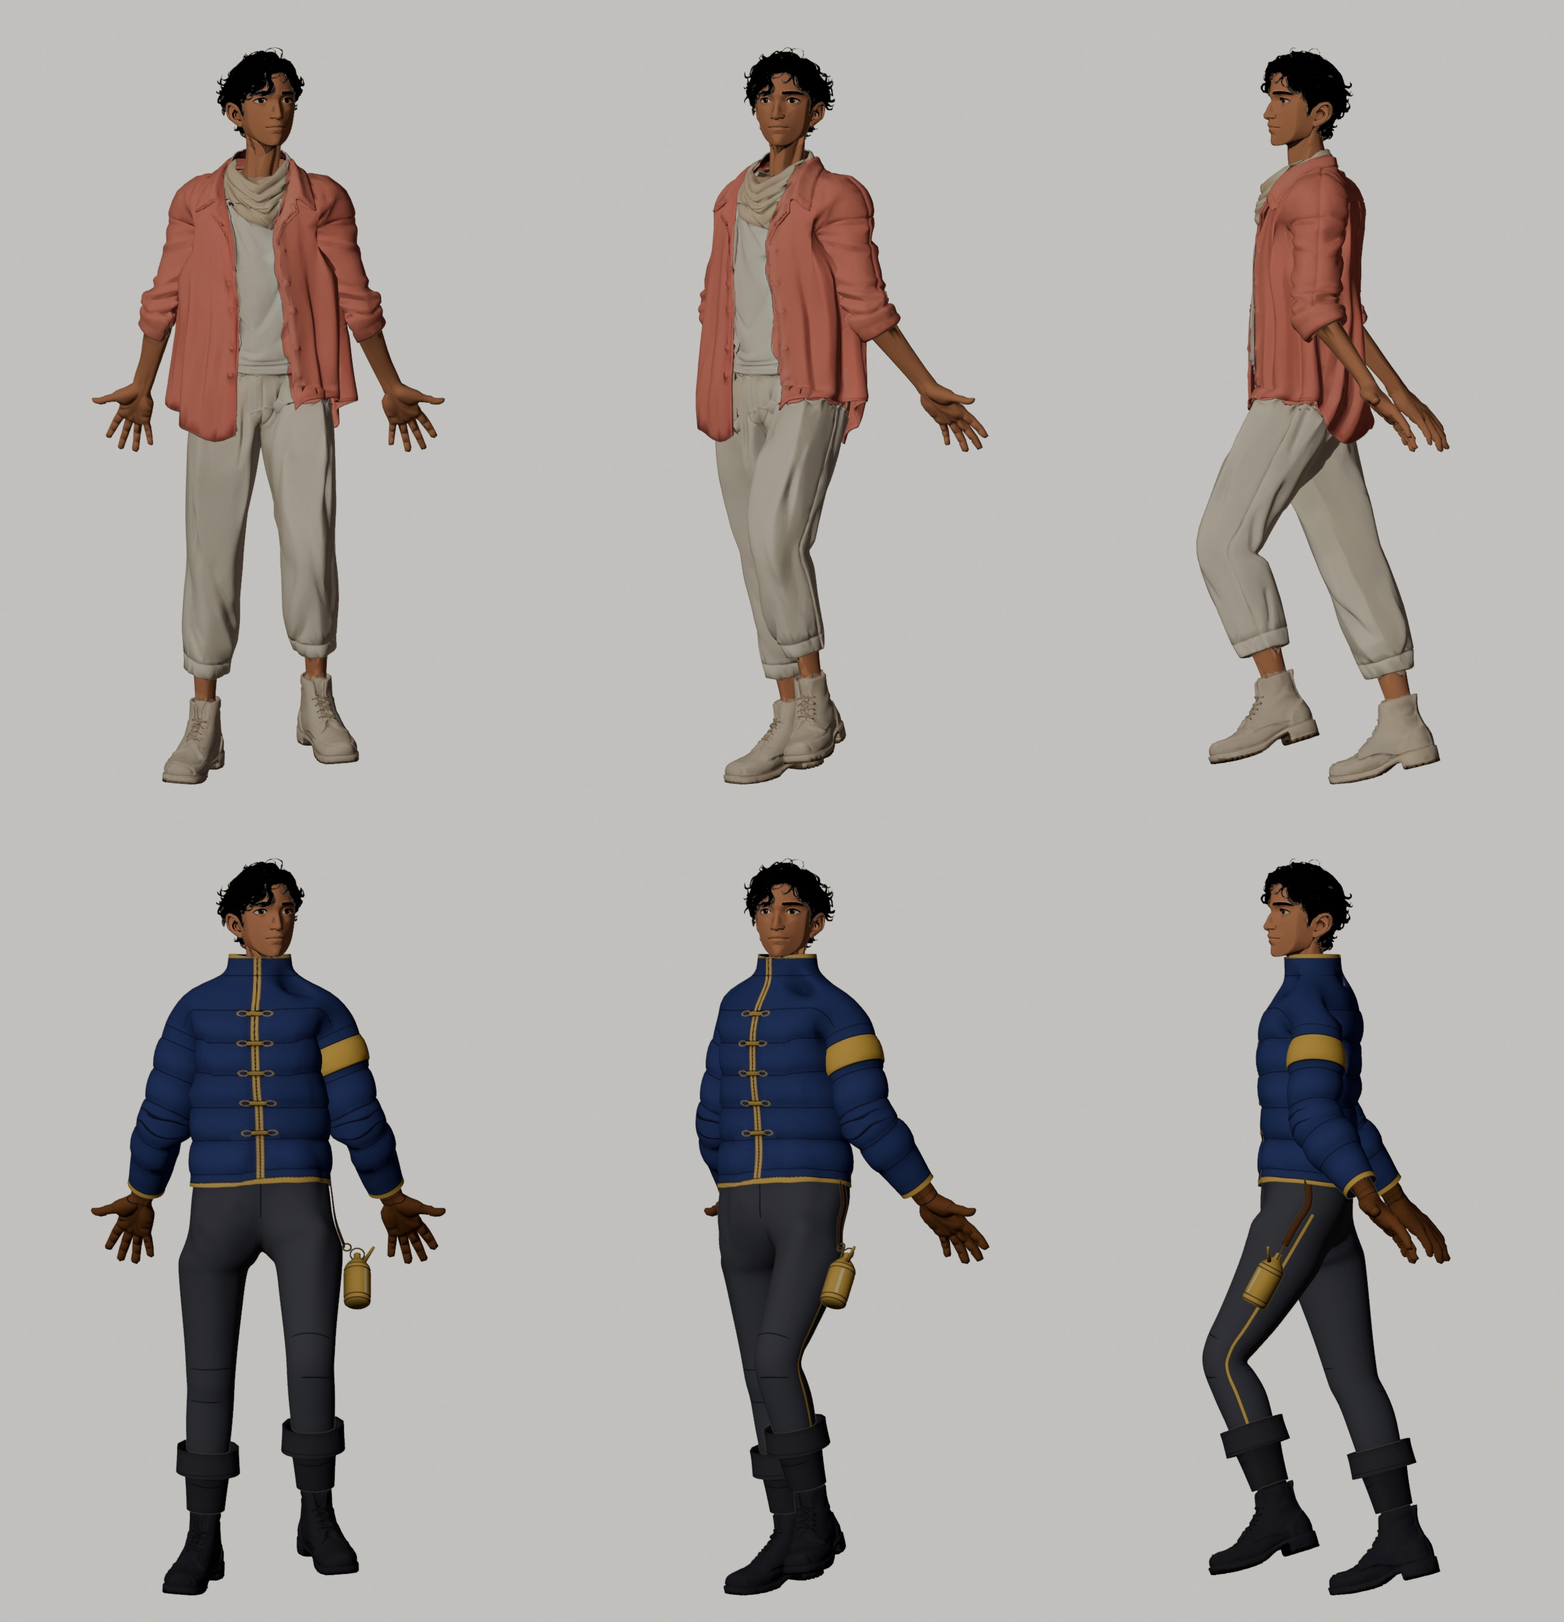
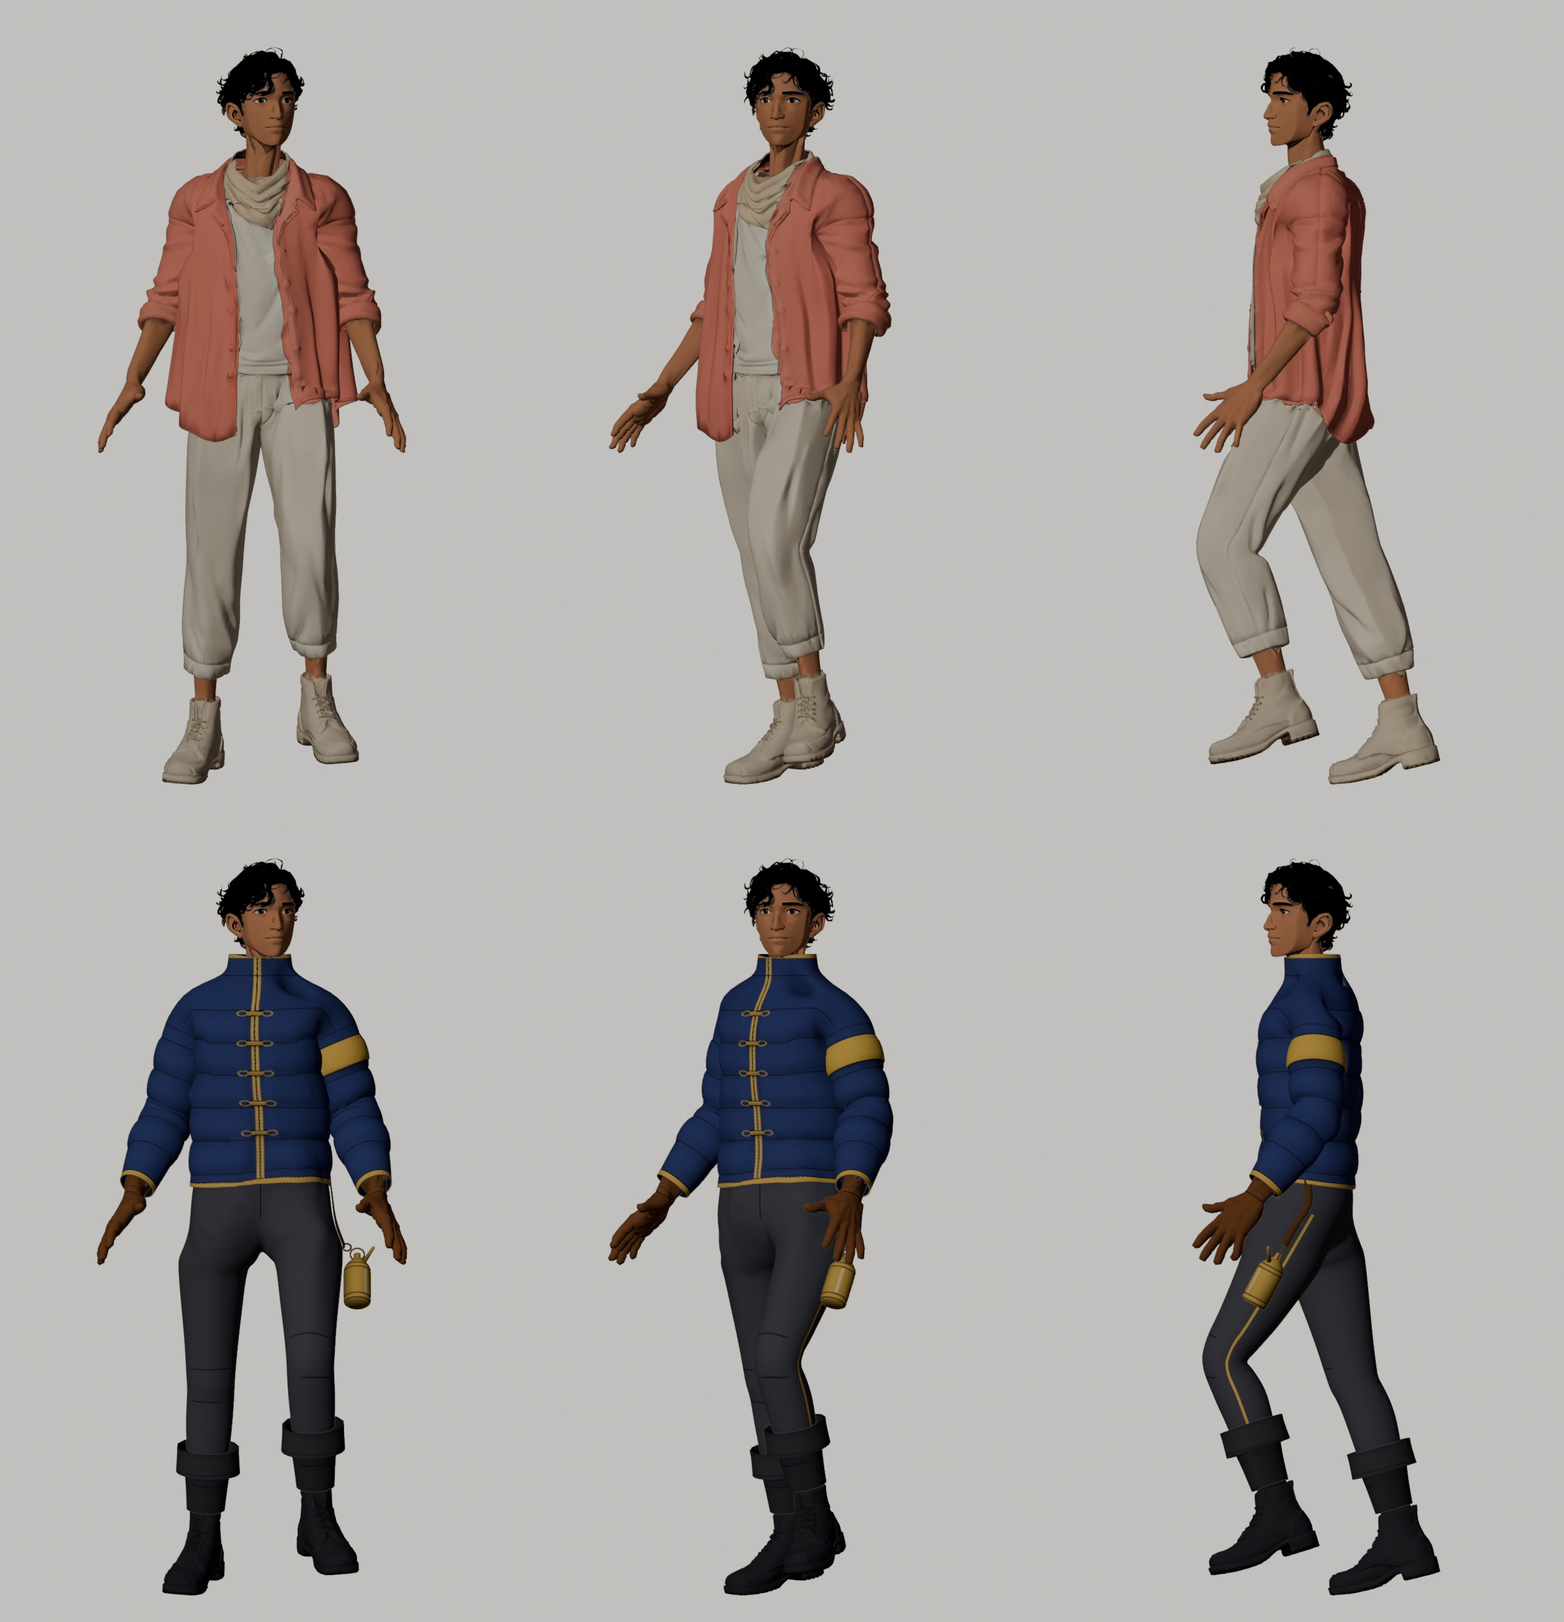
Fixes #548: the outfit pictures' elbows bend forward: the lowered pose's forearm turns had their signs swapped
The cause: the previews' lowered pose (scripts/blender/traveller/poses.py LOWERED, and its own copy in
previews.py) turns each bone about the armature's axes from the rest T-pose. The rig faces -y with his
left at +x, so a forearm bends forward (toward -y) about z by a negative angle on the left and a positive
one on the right; the pose had +35 / -35, so in every posed picture (the base's and each outfit's) the
elbows bent backwards, the hands out behind the hips, palms forward. Not the rig: the bones' rest and
roll match B3's, and the game's clips (poses.clip, and the game's own Animator on B3's skeleton that the
outfits page binds the v2 skin to by bone name) bend the elbows forward and the knees back, measured.

- poses.py: the forearms' signs the right way round, and the palms turned in (his rest palms face
  forward), shared between the forearm and the wrist; a bone may take several turns in order (turn());
  bend() reads an elbow's or a knee's bend and its side. previews.py uses poses.LOWERED (no copy).
- Re-rendered: the base's posed and shoulder sheets, each outfit's posed sheet (the pokes in the lowered
  pose measured again by a rebuild into a temp dir: unchanged, the manifests left as they were).
- tests/traveller-elbows.test.js: the lowered pose read from poses.py on the v2 rest bends both elbows
  forward and the knee back; the game's idle, walk and run on B3 with the v2 skin bound by bone name bend
[…]

diff --git a/tests/traveller-elbows.test.js b/tests/traveller-elbows.test.js
@@ -1,0 +1,148 @@
+// The v2 traveller's elbows and knees bend the right way (#548; the author: "in the outfits you are showing me why
+// are the arms bent backwards?"). The cause was the previews' lowered pose (scripts/blender/traveller/poses.py,
+// LOWERED, and its copy in previews.py): the forearms' turns about the armature's z had their signs the wrong way
+// round for a rig facing -y, so in every posed picture the elbows bent backwards, the hands out behind, palms
+// forward. Measured here: that pose read from poses.py on the v2 skeleton's rest (bent forward now, the knee back);
+// and the game's own clips (idle, walk, run) on B3 with the v2 skin bound to its skeleton by bone name, as the
+// outfits page binds it (src/characters/outfit-page.js): its forearms bend as B3's skeleton does, forward.
+import test from 'node:test';
+import assert from 'node:assert/strict';
+import * as T from 'three';
+import { GLTFLoader } from 'three/addons/loaders/GLTFLoader.js';
+import { readFileSync } from 'node:fs';
+const element = () => ({ classList: { add() {}, remove() {}, toggle() {} }, style: {}, dataset: {}, addEventListener() {}, appendChild() {}, remove() {}, querySelector: () => null });
+globalThis.document ??= { createElement: element, body: element(), getElementById: () => null, querySelector: () => null };
+globalThis.ProgressEvent ??= class { constructor(type, init) { Object.assign(this, { type }, init); } };
+const { Player } = await import('../src/player.js');
+const { Physics } = await import('../src/physics.js');
+const { Animator, libraryFrom } = await import('../src/animator.js');
+const { createTraveller } = await import('../src/characters/traveller.js');
+const { travellerB3 } = await import('./gait-sim.js');
+const { course, CAM_PLUS_Z } = await import('../src/gait-course.js');
+
+const DIR = 'data/characters/traveller-v2/';
+const manifest = JSON.parse(readFileSync(DIR + 'manifest.json', 'utf8'));
+
+/** The lowered pose as poses.py writes it: { bone: [[axis, degrees], ...] } (a Python dict of tuples, read as JS). */
+function lowered() {
+  const src = readFileSync('scripts/blender/traveller/poses.py', 'utf8');
+  const consts = Object.fromEntries([...src.matchAll(/^([A-Z_]+) = (-?[\d.]+)\b/gm)].map((m) => [m[1], Number(m[2])]));
+  const text = /^LOWERED = (\{[\s\S]*?\})\n/m.exec(src)[1].replace(/\(/g, '[').replace(/\)/g, ']');
+  const raw = new Function(...Object.keys(consts), `return ${text};`)(...Object.values(consts));
+  // one turn [axis, deg] or a list of them
+  return Object.fromEntries(Object.entries(raw).map(([k, v]) => [k, typeof v[1] === 'number' ? [v] : v]));
+}
+// Blender's frame (z up, facing -y) from the manifest's (the game's: y up, facing +z)
+const blender = ([x, y, z]) => new T.Vector3(x, -z, y);
+const head = (n) => blender(manifest.skeleton[n].head);
+/** A bone's turns as one rotation in the armature's frame, made in order (poses.turn). */
+const turned = (turns = []) => turns.reduce((q, [axis, deg]) => new T.Quaternion().setFromAxisAngle(new T.Vector3(...axis).normalize(), deg * Math.PI / 180).multiply(q), new T.Quaternion());
+/** (degrees between the two bones, the lower one's lean toward the upper one's front) for a chain a → b → c. */
+function bendOf(u, f, front) {
+  const perp = f.clone().addScaledVector(u, -f.dot(u));
+  return { deg: u.angleTo(f) * 180 / Math.PI, lean: perp.dot(front) };
+}
+
+test('the previews\' lowered pose bends the elbows forward and the knee back (poses.py)', () => {
+  const P = lowered();
+  for (const s of ['l', 'r']) {
+    const qu = turned(P[`upperarm_${s}`]), qf = qu.clone().multiply(turned(P[`lowerarm_${s}`]));
+    const u = head(`lowerarm_${s}`).sub(head(`upperarm_${s}`)).normalize().applyQuaternion(qu);
+    const f = head(`hand_${s}`).sub(head(`lowerarm_${s}`)).normalize().applyQuaternion(qf);
+    const b = bendOf(u, f, new T.Vector3(0, -1, 0).applyQuaternion(qu));
+    assert.ok(b.deg > 20 && b.lean > 0.3, `elbow ${s}: bent ${b.deg.toFixed(0)}°, toward his front ${b.lean.toFixed(2)} (below 0: backwards)`);
+  }
+  const qt = turned(P.thigh_l), qc = qt.clone().multiply(turned(P.calf_l));
+  const u = head('calf_l').sub(head('thigh_l')).normalize().applyQuaternion(qt);
+  const f = head('foot_l').sub(head('calf_l')).normalize().applyQuaternion(qc);
+  const b = bendOf(u, f, new T.Vector3(0, -1, 0).applyQuaternion(qt));
+  assert.ok(b.deg > 20 && b.lean < -0.3, `knee l: bent ${b.deg.toFixed(0)}°, toward his front ${b.lean.toFixed(2)} (a knee bends back)`);
+  // and the previews' own copy is that pose (previews.py once had its own, the same wrong signs)
+  assert.match(readFileSync('scripts/blender/traveller/previews.py', 'utf8'), /\*\*PZ\.LOWERED/);
+});
+
+// ---- the game's clips on B3, the v2 skin on its skeleton
+const parse = (file) => { const b = readFileSync(file); return new GLTFLoader().parseAsync(b.buffer.slice(b.byteOffset, b.byteOffset + b.byteLength), ''); };
+async function v2Skin() {
+  const g = readFileSync(DIR + 'traveller.glb'), n = g.readUInt32LE(12), json = JSON.parse(g.toString('utf8', 20, 20 + n)), bin = g.subarray(28 + n);
+  json.buffers = [{ uri: 'data:application/octet-stream;base64,' + bin.toString('base64'), byteLength: bin.length }];
+  delete json.images; delete json.textures; delete json.samplers; delete json.materials;
+  for (const m of json.meshes) for (const pr of m.primitives) delete pr.material;
+  const gltf = await new GLTFLoader().parseAsync(JSON.stringify(json), '');
+  let skin = null;
+  gltf.scene.traverse((o) => { if (o.isSkinnedMesh && o.name === 'Skin') skin = o; });
+  return skin;
+}
+const assets = await travellerB3(), lib = libraryFrom(await parse('public/anim/ual.glb')), skinSrc = await v2Skin();
+
+/** The game's traveller (B3) standing at the origin facing +z, and the v2 skin piece bound to his skeleton by bone name. */
+function traveller() {
+  const scene = course(), physics = new Physics(scene);
+  const p = new Player(physics, { climb: false, health: false });
+  p.animator = new Animator(lib, p.char);
+  p.character = createTraveller(p.char, assets);
+  p.humanoid = p.character.humanoid;
+  p.gear = { update() {}, device: { visible: true } };
+  p._lastVel = new T.Vector3();
+  p.pos.set(0, physics.groundAt(0, 5, 0), 0); p.heading = 0; p.vel.set(0, 0, 0); p.onGround = true; p.lastSafe.copy(p.pos);
+  scene.add(p.object);
+  // (as outfit-page.js loadParts and Wardrobe.make: skinIndex renumbered to his bones by name, bound with B3's bind matrix)
+  const body = p.humanoid.body, bones = body.skeleton.bones, g = skinSrc.geometry.clone();
+  const map = skinSrc.skeleton.bones.map((b) => bones.findIndex((t) => t.name === b.name));
+  assert.ok(map.every((i) => i >= 0), 'every v2 bone on his skeleton');
+  const si = g.attributes.skinIndex;
+  for (let k = 0; k < si.array.length; k++) si.array[k] = map[si.array[k]];
+  const v2 = new T.SkinnedMesh(g, new T.MeshBasicMaterial());
+  body.parent.add(v2);
+  v2.bind(body.skeleton, body.bindMatrix);
+  return { p, v2 };
+}
+
+/** Each elbow's bend on B3's skeleton and on the v2 skin (its hand's verts' centroid off the elbow), in his own frame. */
+function elbows(p, v2, hands) {
+  const H = p.humanoid, root = p.char.root, inv = root.getWorldQuaternion(new T.Quaternion()).invert();
+  root.updateMatrixWorld(true); H.body.skeleton.update();
+  const at = (b) => root.worldToLocal(b.getWorldPosition(new T.Vector3()));
+  const out = {};
+  for (const s of ['l', 'r']) {
+    const U = H.b[`upperarm_${s}`], L = H.b[`lowerarm_${s}`], W = H.b[`hand_${s}`];
+    const front = new T.Vector3(0, 0, 1).applyQuaternion(U.getWorldQuaternion(new T.Quaternion()).premultiply(inv).multiply(H.rest.get(U).q.clone().invert()));
+    const u = at(L).sub(at(U)).normalize(), elbow = at(L);
+    const hand = hands[s].reduce((c, i) => c.add(root.worldToLocal(v2.applyBoneTransform(i, new T.Vector3().fromBufferAttribute(v2.geometry.attributes.position, i)).applyMatrix4(v2.matrixWorld))), new T.Vector3()).divideScalar(hands[s].length);
+    out[s] = { b3: bendOf(u, at(W).sub(elbow).normalize(), front), v2: bendOf(u, hand.clone().sub(elbow).normalize(), front), handOff: hand.distanceTo(at(W)) };
+  }
+  return out;
+}
+
+const GAITS = [['standing (the idle)', 4 * 60, () => ({})], ['walking', 3 * 60, () => ({ y: 1 })], ['running', 3 * 60, () => ({ y: 1, run: true })]];
+for (const [name, frames, drive] of GAITS) {
+  test(`the game's clips bend the v2 elbows as B3's, forward: ${name}`, { timeout: 300000 }, async () => {
+    const { p, v2 } = traveller(), dt = 1 / 60;
+    // his hands on the v2 skin: the verts weighted mostly to each hand bone
+    const bones = p.humanoid.body.skeleton.bones, w = v2.geometry.attributes.skinWeight, si = v2.geometry.attributes.skinIndex;
+    const hands = Object.fromEntries(['l', 'r'].map((s) => {
+      const h = bones.findIndex((b) => b.name === `hand_${s}`), ids = [];
+      for (let i = 0; i < w.count; i++) for (let k = 0; k < 4; k++) if (si.getComponent(i, k) === h && w.getComponent(i, k) > 0.6) ids.push(i);
+      return [s, ids];
+    }));
+    assert.ok(hands.l.length > 20 && hands.r.length > 20, 'hand verts to follow');
+    const rest = elbows(p, v2, hands);
+    let bent = 0, worstOff = 0;
+    for (let i = 0; i < frames; i++) {
+      p.update(dt, drive(i * dt), CAM_PLUS_Z); p.object.updateMatrixWorld(true);
+      p.character.updateHands();
+      if (i < 30 || i % 6) continue;
+      const m = elbows(p, v2, hands);
+      for (const s of ['l', 'r']) {
+        worstOff = Math.max(worstOff, Math.abs(m[s].handOff - rest[s].handOff));
+        if (m[s].b3.deg < 15) continue;   // (near straight: no side to bend to)
+        bent++;
+        const say = `${s} elbow at ${i} (${name}): B3 bent ${m[s].b3.deg.toFixed(0)}° toward his front ${m[s].b3.lean.toFixed(2)}, v2 ${m[s].v2.deg.toFixed(0)}° ${m[s].v2.lean.toFixed(2)}`;
+        assert.ok(m[s].b3.lean > 0, `B3 bends backwards: ${say}`);
+        assert.ok(m[s].v2.lean > 0, `v2 bends backwards: ${say}`);
+      }
+    }
+    assert.ok(bent > 0, `${name}: the elbows bent at some point`);
+    assert.ok(worstOff < 0.03, `${name}: the v2 hand left B3's hand bone by ${(worstOff * 100).toFixed(1)} cm`);
+  });
+}

diff --git a/scripts/blender/traveller/poses.py b/scripts/blender/traveller/poses.py
@@ -15,9 +15,19 @@ from mathutils.bvhtree import BVHTree
 HERE = os.path.dirname(os.path.abspath(__file__))
 UAL = os.path.join(HERE, '..', '..', '..', 'public', 'anim', 'ual.glb')
 
-# the previews' pose: arms down and bent, a stride, the head turned
-LOWERED = {'upperarm_l': ((0, 1, 0), 68), 'upperarm_r': ((0, 1, 0), -68), 'lowerarm_l': ((0, 0, 1), 35),
-           'lowerarm_r': ((0, 0, 1), -35), 'thigh_l': ((1, 0, 0), -28), 'calf_l': ((1, 0, 0), 45),
+PALMS_IN = 100   # degrees
+# the previews' pose: arms down and bent, a stride, the head turned. Each turn is about an axis of the armature
+# (Blender's frame: z up, facing -Y, his left at +x), whatever the bone's roll, from the rest T-pose: the upper
+# arms lowered about y, the forearms bent forward (toward -y) about z, so the left one (along +x) turns by a
+# negative angle and the right one (along -x) by a positive one. (Until #548 the forearms' signs were the other
+# way round: the elbows bent backwards, the hands flung out behind, palms forward, in every posed preview.)
+# His rest T-pose has the palms forward: the forearms and hands turned palms in (about x, the arms' line at rest,
+# a turn shared between the forearm and the wrist), as arms hang. A bone's turns are made in the order given
+# (the forearm's: turned on its own line, then bent).
+LOWERED = {'upperarm_l': ((0, 1, 0), 68), 'upperarm_r': ((0, 1, 0), -68),
+           'lowerarm_l': [((1, 0, 0), PALMS_IN / 2), ((0, 0, 1), -35)], 'lowerarm_r': [((1, 0, 0), PALMS_IN / 2), ((0, 0, 1), 35)],
+           'hand_l': ((1, 0, 0), PALMS_IN / 2), 'hand_r': ((1, 0, 0), PALMS_IN / 2),
+           'thigh_l': ((1, 0, 0), -28), 'calf_l': ((1, 0, 0), 45),
            'thigh_r': ((1, 0, 0), 14), 'neck_01': ((0, 0, 1), 12), 'Head': ((0, 0, 1), 14),
            'spine_02': ((0, 0, 1), -6)}
 # frames of the game's clips (fraction of the clip): idle, the jog's two passing poses, a sprint stride
@@ -34,13 +44,19 @@ def reset(rig):
 
 def lowered(rig):
     reset(rig)
-    for name, (axis, deg) in LOWERED.items():
-        if name not in rig.pose.bones:
-            continue
-        b = rig.pose.bones[name]
-        M = rig.data.bones[name].matrix_local.to_3x3()
-        b.rotation_quaternion = Quaternion(M.inverted() @ Vector(axis), math.radians(deg))
+    for name, turns in LOWERED.items():
+        if name in rig.pose.bones:
+            rig.pose.bones[name].rotation_quaternion = turn(rig, name, turns)
     bpy.context.view_layer.update()
+
+
+def turn(rig, name, turns):
+    """A pose bone's rotation for turns about the armature's axes ((axis, degrees) or a list of them, made in order)."""
+    M = rig.data.bones[name].matrix_local.to_3x3().inverted()
+    q = Quaternion()
+    for axis, deg in (turns if isinstance(turns, list) else [turns]):
+        q = Quaternion(M @ Vector(axis), math.radians(deg)) @ q
+    return q
 
 
 _src = {}
@@ -131,6 +147,19 @@ def clip(rig, name):
         head = (Mt @ pb.matrix).translation
         pb.matrix = Mt.inverted() @ Matrix.LocRotScale(head, delta @ rt, None)
         bpy.context.view_layer.update()
+
+
+def bend(rig, side, limb='arm'):
+    """How a limb bends in the current pose: (degrees between its two bones, the lower bone's lean off the upper
+    one's line toward the upper bone's front carried by its pose, -1..1). His front is -y at rest, so an elbow
+    bends the right way when the lean is positive and a knee when it is negative (#548)."""
+    a, b, c = (f'upperarm_{side}', f'lowerarm_{side}', f'hand_{side}') if limb == 'arm' else (f'thigh_{side}', f'calf_{side}', f'foot_{side}')
+    M = rig.matrix_world
+    at = lambda n: M @ rig.pose.bones[n].head
+    rest = (M @ rig.data.bones[a].matrix_local).to_quaternion()
+    front = ((M @ rig.pose.bones[a].matrix).to_quaternion() @ rest.inverted()) @ Vector((0, -1, 0))
+    u, f = (at(b) - at(a)).normalized(), (at(c) - at(b)).normalized()
+    return math.degrees(u.angle(f)), (f - u * f.dot(u)).dot(front)
 
 
 def under_set(inner, outer, reach=0.05):

diff --git a/scripts/blender/traveller/previews.py b/scripts/blender/traveller/previews.py
@@ -156,20 +156,14 @@ if 'posed' in ONLY:
     # the skins at work: arms down and bent, a stride, the head turned, a smile (pose bones, not clips)
     show(parts)
     pb = rig.pose.bones
-    turns = {'upperarm_l': ((0, 1, 0), 68), 'upperarm_r': ((0, 1, 0), -68), 'lowerarm_l': ((0, 0, 1), 35),
-             'lowerarm_r': ((0, 0, 1), -35), 'thigh_l': ((1, 0, 0), -28), 'calf_l': ((1, 0, 0), 45),
-             'thigh_r': ((1, 0, 0), 14), 'neck_01': ((0, 0, 1), 12), 'Head': ((0, 0, 1), 14),
-             'spine_02': ((0, 0, 1), -6), 'eye_l': ((0, 0, 1), 15), 'eye_r': ((0, 0, 1), 15)}
-    for name, (axis, deg) in turns.items():
+    import poses as PZ   # (poses.LOWERED: the one lowered pose, #548)
+    turns = {**PZ.LOWERED, 'eye_l': ((0, 0, 1), 15), 'eye_r': ((0, 0, 1), 15)}
+    for name, t in turns.items():
         if name not in pb:
             continue
         b = pb[name]
         b.rotation_mode = 'QUATERNION'
-        # a turn about the armature's own axis, whatever the bone's roll
-        M = rig.data.bones[name].matrix_local.to_3x3()
-        from mathutils import Quaternion
-        q = Quaternion(M.inverted() @ Vector(axis), math.radians(deg))
-        b.rotation_quaternion = q
+        b.rotation_quaternion = PZ.turn(rig, name, t)   # (about the armature's own axes, whatever the bone's roll)
     for o in [by[n] for n in ('Head', 'Brows') if n in by]:
         o.data.shape_keys.key_blocks['smile'].value = 0.8
     bpy.context.view_layer.update()

diff --git a/docs/systems/characters.md b/docs/systems/characters.md
@@ -2119,7 +2119,13 @@ sockets, the atlas's swatches, the draw groups, what comes out through the shirt
   rotation from rest) and counts the verts under the shirt that come out through it
   (`manifest.underShirt`): with the arms lowered 23 tee verts came out in phase 2, 0–2 now. Running, the
   lifted thigh still pushes the trousers through the shirt's front hem (as in phase 2): that wants the
-  shirt's cloth solver.
+  shirt's cloth solver. The lowered pose (`poses.LOWERED`, the one copy; `previews.py` uses it too) turns
+  each bone about the armature's own axes from the rest T-pose (z up, facing -y, his left at +x): the
+  forearms bend forward about z (the left by a negative angle, the right by a positive one) and turn palms
+  in (his rest palms face forward); until #548 the forearms' signs were swapped and every posed picture
+  bent the elbows backwards. `poses.bend()` reads an elbow's or knee's bend and its side;
+  `tests/traveller-elbows.test.js` checks the pose, and the game's clips on B3 with the v2 skin bound by
+  bone name (as the outfits page binds it) bending the elbows forward.
 - **His skin on the body** (`skin_colours`). Each body vertex near his visible skin (B3's forearms and
   ankles, head-v3's neck) takes its colour there, where it reads as skin; the rest is filled in by
   spreading those colours over the body, so every seam matches. The base body is collapsed to 55 % of its
